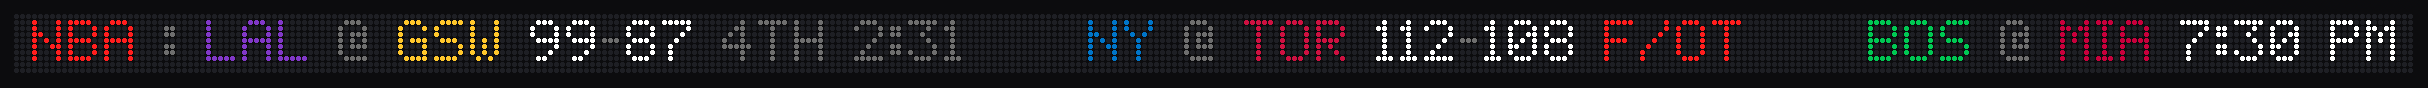
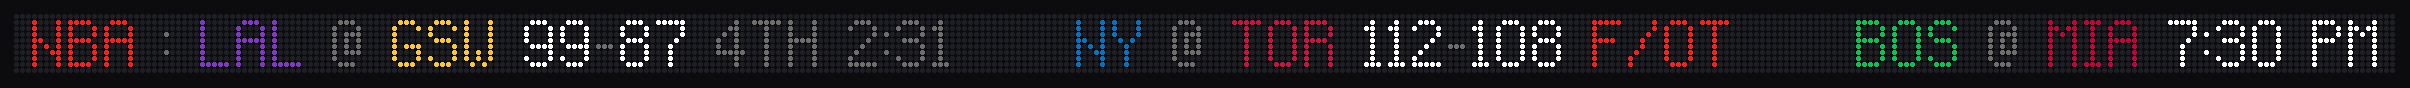
Use Phanteks' own panel font (5x8), copied from NexLinq's preview
- Letters and digits read dot for dot from NexLinq preview screenshots; P % ° / @ and some
  punctuation drawn in the same style. Text now uses rows 1-8 (comma tail on row 9)
- big() draws the new font natively; 7-row icons sit one row lower to line up with letters
- README screenshots regenerated

Claude-Session: https://claude.ai/code/session_01H3njHNDUQi74XPcFKKmD5S

diff --git a/matrix/font.py b/matrix/font.py
@@ -1,38 +1,75 @@
-"""5x7 pixel font, drawn proportionally (narrow glyphs like 1 : . take less space).
+"""The panel font: 5 dots wide, 8 tall, drawn proportionally (narrow glyphs like 1 : . take
+less space). Copied dot for dot from Phanteks' own Matrix 900 text (NexLinq's preview); the
+few characters it didn't show (P % ° / @ and some punctuation) are drawn in the same style.
 
-Each glyph is 7 rows of 5-bit masks, most significant bit = leftmost column.
+Each glyph is 9 rows, top to bottom: rows 0-7 are the letter, row 8 is for descenders (the
+comma). Text sits on panel rows 1-8 (render.TOP = 1). '#' = lit.
 Unknown characters render as a blank space.
 """
 
 GLYPHS = {
-    "0": [14, 17, 19, 21, 25, 17, 14], "1": [4, 12, 4, 4, 4, 4, 14],
-    "2": [14, 17, 1, 2, 4, 8, 31], "3": [31, 2, 4, 2, 1, 17, 14],
-    "4": [2, 6, 10, 18, 31, 2, 2], "5": [31, 16, 30, 1, 1, 17, 14],
-    "6": [6, 8, 16, 30, 17, 17, 14], "7": [31, 1, 2, 4, 8, 8, 8],
-    "8": [14, 17, 17, 14, 17, 17, 14], "9": [14, 17, 17, 15, 1, 2, 12],
-    "A": [14, 17, 17, 31, 17, 17, 17], "B": [30, 17, 17, 30, 17, 17, 30],
-    "C": [14, 17, 16, 16, 16, 17, 14], "D": [30, 17, 17, 17, 17, 17, 30],
-    "E": [31, 16, 16, 30, 16, 16, 31], "F": [31, 16, 16, 30, 16, 16, 16],
-    "G": [14, 17, 16, 23, 17, 17, 15], "H": [17, 17, 17, 31, 17, 17, 17],
-    "I": [14, 4, 4, 4, 4, 4, 14], "J": [7, 2, 2, 2, 2, 18, 12],
-    "K": [17, 18, 20, 24, 20, 18, 17], "L": [16, 16, 16, 16, 16, 16, 31],
-    "M": [17, 27, 21, 21, 17, 17, 17], "N": [17, 17, 25, 21, 19, 17, 17],
-    "O": [14, 17, 17, 17, 17, 17, 14], "P": [30, 17, 17, 30, 16, 16, 16],
-    "Q": [14, 17, 17, 17, 21, 18, 13], "R": [30, 17, 17, 30, 20, 18, 17],
-    "S": [15, 16, 16, 14, 1, 1, 30], "T": [31, 4, 4, 4, 4, 4, 4],
-    "U": [17, 17, 17, 17, 17, 17, 14], "V": [17, 17, 17, 17, 17, 10, 4],
-    "W": [17, 17, 17, 21, 21, 21, 10], "X": [17, 17, 10, 4, 10, 17, 17],
-    "Y": [17, 17, 10, 4, 4, 4, 4], "Z": [31, 1, 2, 4, 8, 16, 31],
-    ":": [0, 12, 12, 0, 12, 12, 0], "-": [0, 0, 0, 14, 0, 0, 0],
-    ".": [0, 0, 0, 0, 0, 12, 12], "/": [1, 1, 2, 4, 8, 16, 16],
-    "@": [14, 17, 23, 21, 23, 16, 15], "'": [4, 4, 8, 0, 0, 0, 0],
-    "(": [2, 4, 8, 8, 8, 4, 2], ")": [8, 4, 2, 2, 2, 4, 8],
-    "#": [10, 10, 31, 10, 31, 10, 10], "+": [0, 4, 4, 31, 4, 4, 0],
-    "!": [4, 4, 4, 4, 4, 0, 4], "?": [14, 17, 1, 2, 4, 0, 4],
-    ",": [0, 0, 0, 0, 12, 4, 8], "%": [24, 25, 2, 4, 8, 19, 3],
-    "*": [0, 4, 21, 14, 21, 4, 0], "=": [0, 0, 31, 0, 31, 0, 0],
-    "<": [2, 4, 8, 16, 8, 4, 2], ">": [8, 4, 2, 1, 2, 4, 8],
-    "&": [12, 18, 20, 8, 21, 18, 13], "°": [12, 18, 18, 12, 0, 0, 0],
+    "0": [".###.", "#...#", "#...#", "#...#", "#...#", "#...#", "#...#", ".###.", "....."],
+    "1": [".#.", "##.", ".#.", ".#.", ".#.", ".#.", ".#.", "###", "..."],
+    "2": [".###.", "#...#", "....#", "...#.", "..#..", ".#...", "#....", "#####", "....."],
+    "3": [".###.", "#...#", "....#", ".###.", "....#", "....#", "#...#", ".###.", "....."],
+    "4": ["...#.", "..##.", ".#.#.", "#..#.", "#..#.", "#####", "...#.", "...#.", "....."],
+    "5": ["#####", "#....", "#....", "####.", "....#", "....#", "....#", "####.", "....."],
+    "6": [".###.", "#...#", "#....", "####.", "#...#", "#...#", "#...#", ".###.", "....."],
+    "7": ["#####", "....#", "....#", "...#.", "..#..", "..#..", "..#..", "..#..", "....."],
+    "8": [".###.", "#...#", "#...#", ".###.", "#...#", "#...#", "#...#", ".###.", "....."],
+    "9": [".###.", "#...#", "#...#", "#...#", ".####", "....#", "#...#", ".###.", "....."],
+    "A": [".###.", "#...#", "#...#", "#####", "#...#", "#...#", "#...#", "#...#", "....."],
+    "B": ["####.", "#...#", "#...#", "####.", "#...#", "#...#", "#...#", "####.", "....."],
+    "C": [".###.", "#...#", "#....", "#....", "#....", "#....", "#...#", ".###.", "....."],
+    "D": ["####.", "#...#", "#...#", "#...#", "#...#", "#...#", "#...#", "####.", "....."],
+    "E": ["#####", "#....", "#....", "####.", "#....", "#....", "#....", "#####", "....."],
+    "F": ["#####", "#....", "#....", "####.", "#....", "#....", "#....", "#....", "....."],
+    "G": [".###.", "#...#", "#....", "#....", "#.###", "#...#", "#...#", ".###.", "....."],
+    "H": ["#...#", "#...#", "#...#", "#####", "#...#", "#...#", "#...#", "#...#", "....."],
+    "I": ["###", ".#.", ".#.", ".#.", ".#.", ".#.", ".#.", "###", "..."],
+    "J": ["...##", "....#", "....#", "....#", "....#", "#...#", "#...#", ".###.", "....."],
+    "K": ["#...#", "#..#.", "#.#..", "##...", "#.#..", "#..#.", "#...#", "#...#", "....."],
+    "L": ["#....", "#....", "#....", "#....", "#....", "#....", "#....", "#####", "....."],
+    "M": ["#...#", "##.##", "#.#.#", "#...#", "#...#", "#...#", "#...#", "#...#", "....."],
+    "N": ["#...#", "#...#", "#...#", "##..#", "#.#.#", "#..##", "#...#", "#...#", "....."],
+    "O": [".###.", "#...#", "#...#", "#...#", "#...#", "#...#", "#...#", ".###.", "....."],
+    "P": ["####.", "#...#", "#...#", "####.", "#....", "#....", "#....", "#....", "....."],
+    "Q": [".###.", "#...#", "#...#", "#...#", "#...#", "#.#.#", "#..#.", ".##.#", "....."],
+    "R": ["####.", "#...#", "#...#", "####.", "#...#", "#...#", "#...#", "#...#", "....."],
+    "S": [".###.", "#...#", "#....", ".###.", "....#", "....#", "#...#", ".###.", "....."],
+    "T": ["#####", "..#..", "..#..", "..#..", "..#..", "..#..", "..#..", "..#..", "....."],
+    "U": ["#...#", "#...#", "#...#", "#...#", "#...#", "#...#", "#...#", ".###.", "....."],
+    "V": ["#...#", "#...#", "#...#", "#...#", "#...#", "#...#", ".#.#.", "..#..", "....."],
+    "W": ["#...#", "#...#", "#...#", "#...#", "#...#", "#.#.#", "#.#.#", ".#.#.", "....."],
+    "X": ["#...#", "#...#", ".#.#.", "..#..", ".#.#.", "#...#", "#...#", "#...#", "....."],
+    "Y": ["#...#", "#...#", "#...#", ".#.#.", "..#..", "..#..", "..#..", "..#..", "....."],
+    "Z": ["#####", "....#", "...#.", "..#..", ".#...", "#....", "#....", "#####", "....."],
+    "!": ["#", "#", "#", "#", "#", "#", ".", "#", "."],
+    "?": [".###.", "#...#", "....#", "...#.", "..#..", "..#..", ".....", "..#..", "....."],
+    ".": [".", ".", ".", ".", ".", ".", ".", "#", "."],
+    ",": ["..", "..", "..", "..", "..", "..", ".#", ".#", "#."],
+    ":": [".", ".", "#", ".", ".", "#", ".", ".", "."],
+    ";": ["..", "..", ".#", "..", "..", "..", ".#", ".#", "#."],
+    "-": ["...", "...", "...", "...", "###", "...", "...", "...", "..."],
+    "+": [".....", ".....", "..#..", "..#..", "#####", "..#..", "..#..", ".....", "....."],
+    "=": [".....", ".....", "#####", ".....", ".....", "#####", ".....", ".....", "....."],
+    "/": ["....#", "....#", "...#.", "..#..", "..#..", ".#...", "#....", "#....", "....."],
+    "%": ["##..#", "##..#", "...#.", "..#..", "..#..", ".#...", "#..##", "#..##", "....."],
+    "°": [".#.", "#.#", ".#.", "...", "...", "...", "...", "...", "..."],
+    "'": ["#", "#", "#", ".", ".", ".", ".", ".", "."],
+    "\"": ["#.#", "#.#", "#.#", "...", "...", "...", "...", "...", "..."],
+    "`": ["#", "#", "#", ".", ".", ".", ".", ".", "."],
+    "(": ["..#", ".#.", "#..", "#..", "#..", "#..", ".#.", "..#", "..."],
+    ")": ["#..", ".#.", "..#", "..#", "..#", "..#", ".#.", "#..", "..."],
+    "[": ["##", "#.", "#.", "#.", "#.", "#.", "#.", "##", ".."],
+    "]": ["##", ".#", ".#", ".#", ".#", ".#", ".#", "##", ".."],
+    "<": ["....", "....", "..##", ".##.", "##..", ".##.", "..##", "....", "...."],
+    ">": ["....", "....", "##..", ".##.", "..##", ".##.", "##..", "....", "...."],
+    "#": [".#.#.", ".#.#.", "#####", ".#.#.", ".#.#.", "#####", ".#.#.", ".#.#.", "....."],
+    "@": [".###.", "#...#", "#.###", "#.#.#", "#.#.#", "#.###", "#....", ".###.", "....."],
+    "&": [".##..", "#..#.", "#..#.", ".##..", "#.#.#", "#..#.", "#..#.", ".##.#", "....."],
+    "*": [".....", "#.#.#", ".###.", "#####", ".###.", "#.#.#", ".....", ".....", "....."],
+    "_": [".....", ".....", ".....", ".....", ".....", ".....", ".....", "#####", "....."],
 }
 
 # 7x7 colored icons, stored under private-use characters so they can sit in text.
@@ -60,17 +97,15 @@ ICON_CHAR = {name: chr(0xE000 + i) for i, name in enumerate(ICON_ROWS)}
 ICONS = {ICON_CHAR[name]: rows for name, rows in ICON_ROWS.items()}
 SPACE_WIDTH = 3
 GAP = 1        # blank columns between characters
-HEIGHT = 7
+HEIGHT = 9      # 8 rows of letter + 1 descender row
 
 
 def glyph_columns(ch):
-    """List of columns for one character; each column is 7 booleans (top to bottom)."""
+    """List of columns for one character; each column is HEIGHT booleans (top to bottom)."""
     rows = GLYPHS.get(ch.upper())
     if rows is None:
         return [[False] * HEIGHT for _ in range(SPACE_WIDTH)]
-    used = [c for c in range(5) if any(r & (16 >> c) for r in rows)]
-    lo, hi = min(used), max(used)
-    return [[bool(r & (16 >> c)) for r in rows] for c in range(lo, hi + 1)]
+    return [[r[c] == "#" for r in rows] for c in range(len(rows[0]))]
 
 
 def icon_columns(ch):

diff --git a/matrix/canvas.py b/matrix/canvas.py
@@ -2,8 +2,8 @@
 
 Three text sizes:
 - small: 3x5 font (two lines fit on the panel)
-- normal: the 5x7 ticker font
-- big: 10-px-tall digits/clock (the 5x7 font stretched vertically)
+- normal: the panel font (5x8, matching Phanteks' own)
+- big: the panel font at a chosen height (clock, counter, timer)
 """
 from . import font
 
@@ -80,20 +80,22 @@ class Canvas:
         return x - 1
 
     def normal(self, text, x, y, rgb):
-        """5x7 ticker font at (x, y) = top-left. Returns the x after the text."""
+        """Panel font (5x8, see font.py) at (x, y) = top-left. Returns the x after the text."""
         for ch in text:
-            cols = font.icon_columns(ch) if ch in font.ICONS else font.glyph_columns(ch)
+            icon = ch in font.ICONS
+            cols = font.icon_columns(ch) if icon else font.glyph_columns(ch)
+            dy0 = 1 if icon else 0          # 7-row icons sit one row down, level with the letters' bottoms
             for dx, col in enumerate(cols):
                 for dy, on in enumerate(col):
                     if on:
-                        self.set(x + dx, y + dy, on if isinstance(on, tuple) else rgb)
+                        self.set(x + dx, y + dy0 + dy, on if isinstance(on, tuple) else rgb)
             x += len(cols) + font.GAP
         return x - font.GAP
 
     def big(self, text, x, rgb, top=1, height=8):
-        """Tall text (the 5x7 font stretched to `height` rows starting at `top`).
-        Default: rows 1-8, leaving a row of margin above and below. Returns end x."""
-        rows = [int(y * 7 / height) for y in range(height)]
+        """Tall text: the panel font's 8 letter rows, stretched or squeezed to `height` rows
+        starting at `top` (at the default height of 8 it's the font as-is). Returns end x."""
+        rows = [int(y * 8 / height) for y in range(height)]
         for ch in text:
             cols = font.glyph_columns(ch)
             for dx, col in enumerate(cols):
@@ -116,4 +118,4 @@ def normal_width(text):
 
 
 def big_width(text):
-    return font.text_width(text)       # same columns as the 5x7 font, just taller
+    return font.text_width(text)       # same columns as the normal font

diff --git a/matrix/render.py b/matrix/render.py
@@ -6,7 +6,8 @@ The panel's pixel order is rows of 90, left to right, starting top-left.
 from . import font
 
 W, H = 90, 10
-TOP = 1                      # 7-px glyphs drawn on rows 1-7
+TOP = 1                      # letters on rows 1-8 (comma tails on row 9)
+ICON_TOP = TOP + 1           # 7-row icons on rows 2-8, bottoms level with the letters
 BLACK = (0, 0, 0)
 
 
@@ -20,7 +21,7 @@ def strip(segments):
                     col = [BLACK] * H
                     for y, c in enumerate(icol):
                         if c:
-                            col[TOP + y] = c
+                            col[ICON_TOP + y] = c
                     cols.append(col)
                 cols.extend([[BLACK] * H for _ in range(font.GAP)])
                 continue
